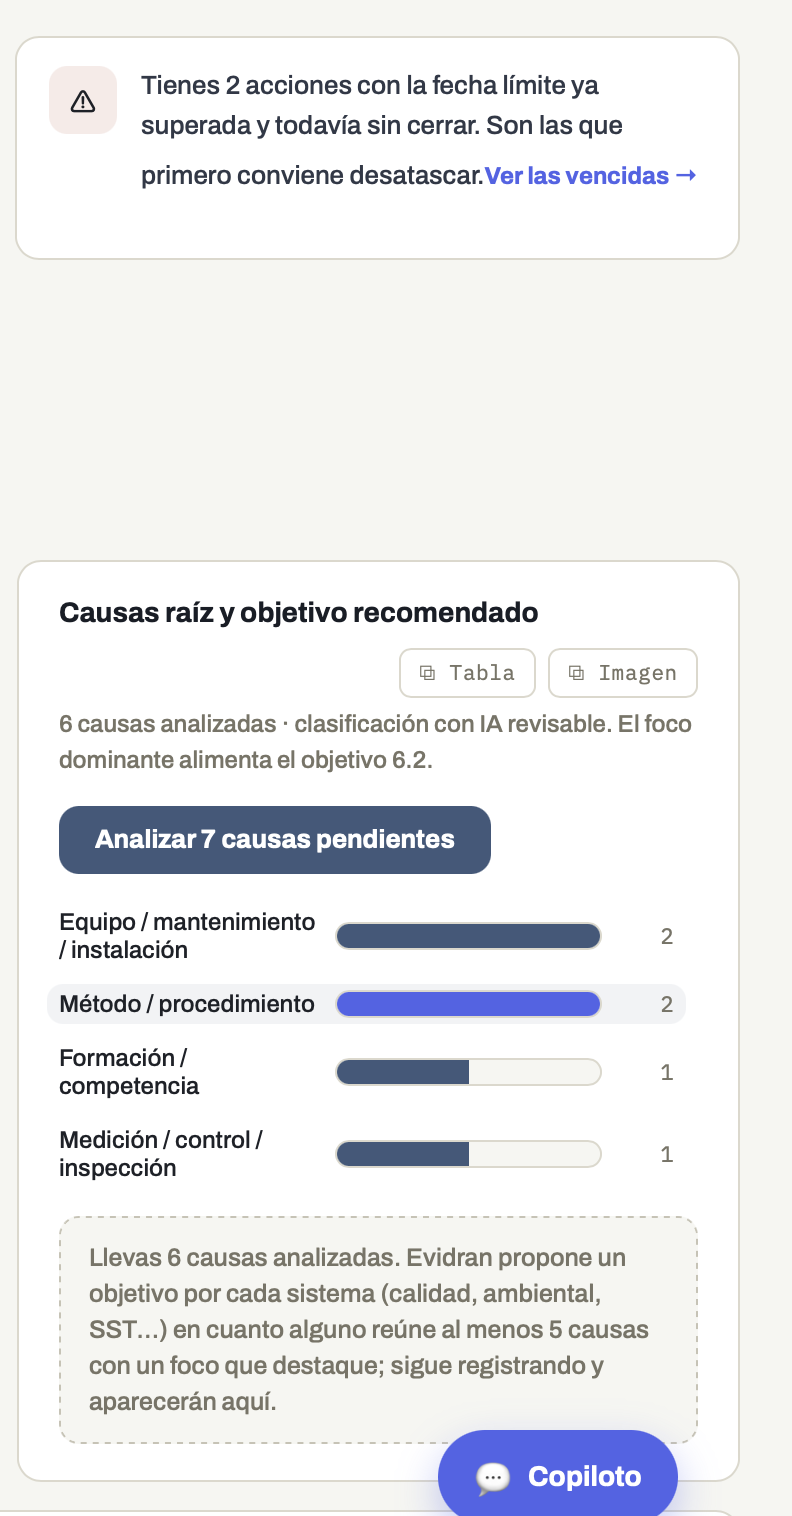
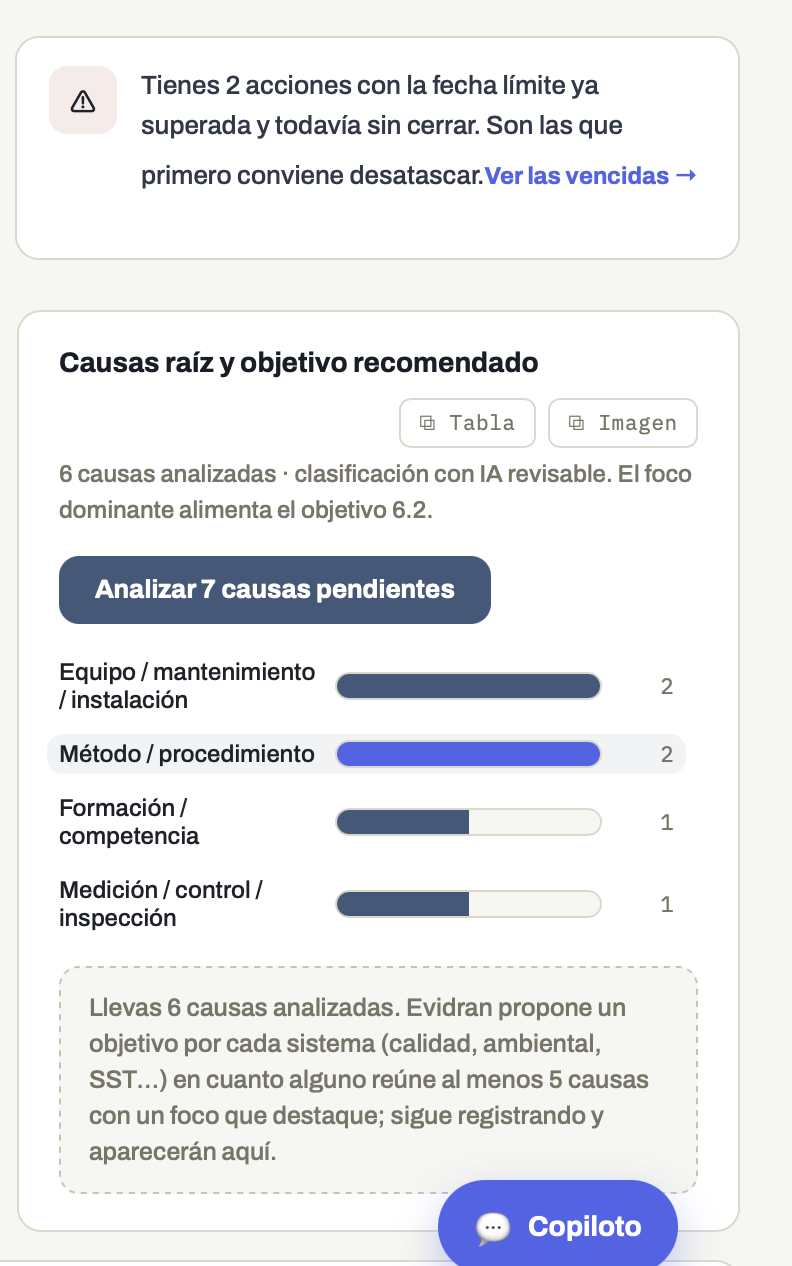
mejoras

diff --git a/index.html b/index.html
@@ -644,7 +644,7 @@
       </div>
       <figure class="intel-real-shot">
         <picture>
-          <source media="(max-width: 640px)" srcset="/media/evidran-inteligencia-real-mobile.png" width="792" height="1516">
+          <source media="(max-width: 640px)" srcset="/media/evidran-inteligencia-real-mobile.png" width="792" height="1266">
           <img src="/media/evidran-inteligencia-real.png" alt="Cuadro de mando real de Evidran con alertas automáticas, tendencias mensuales y clasificación de causas raíz" width="1500" height="1570" loading="lazy" decoding="async">
         </picture>
         <figcaption>Captura real · Señales automáticas, tendencias y causas con trazabilidad al dato.</figcaption>
